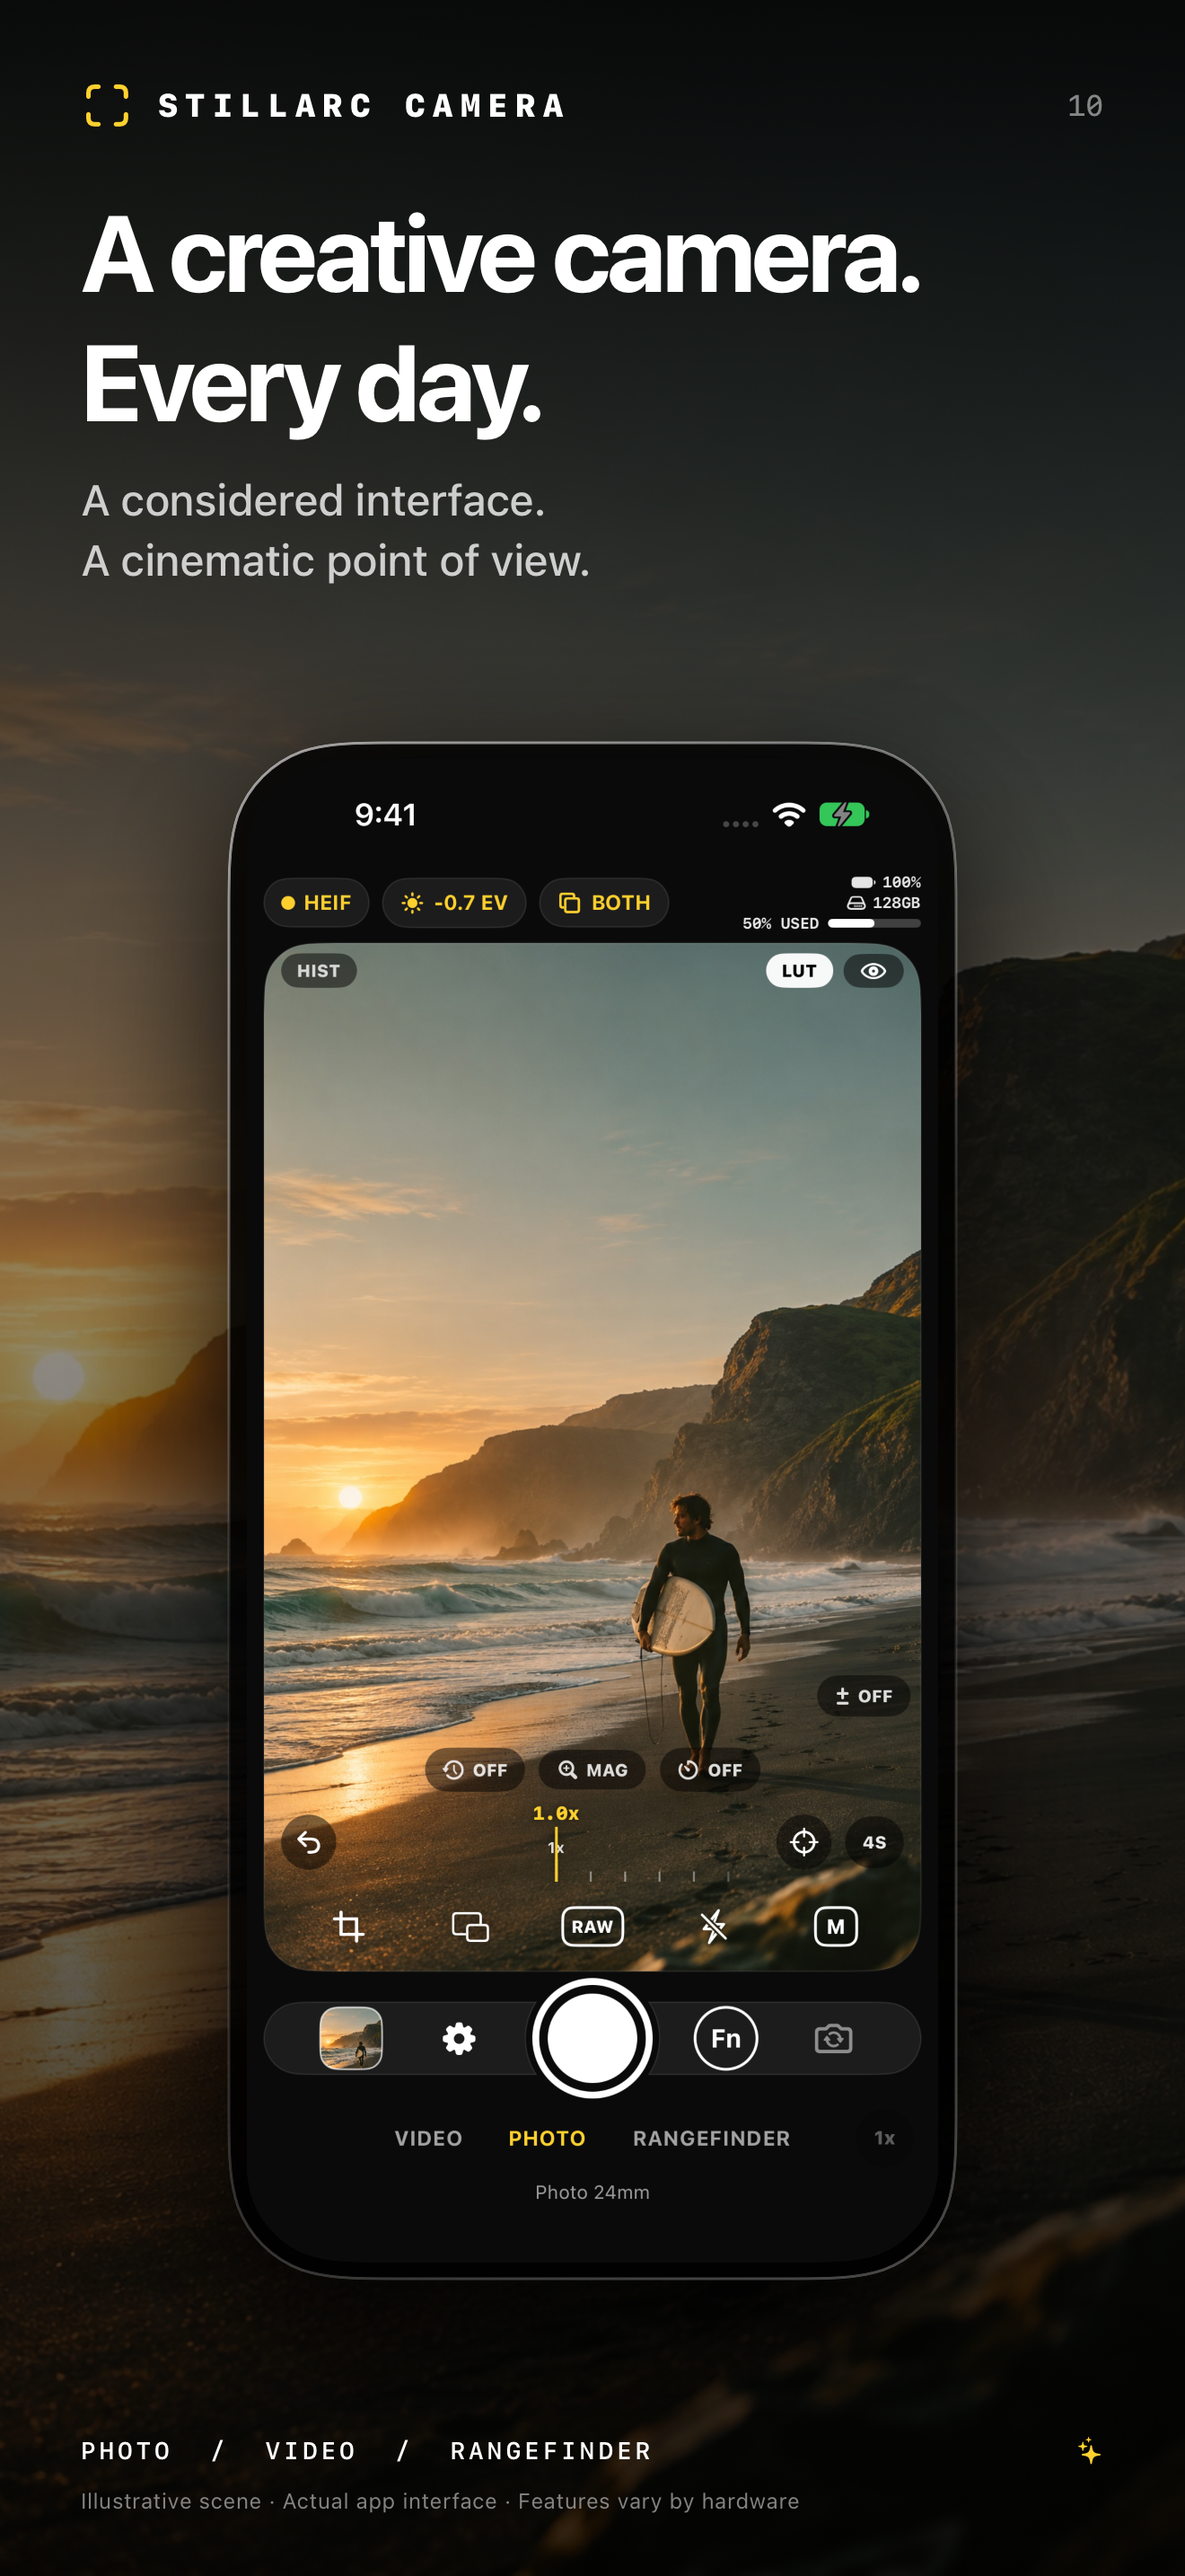
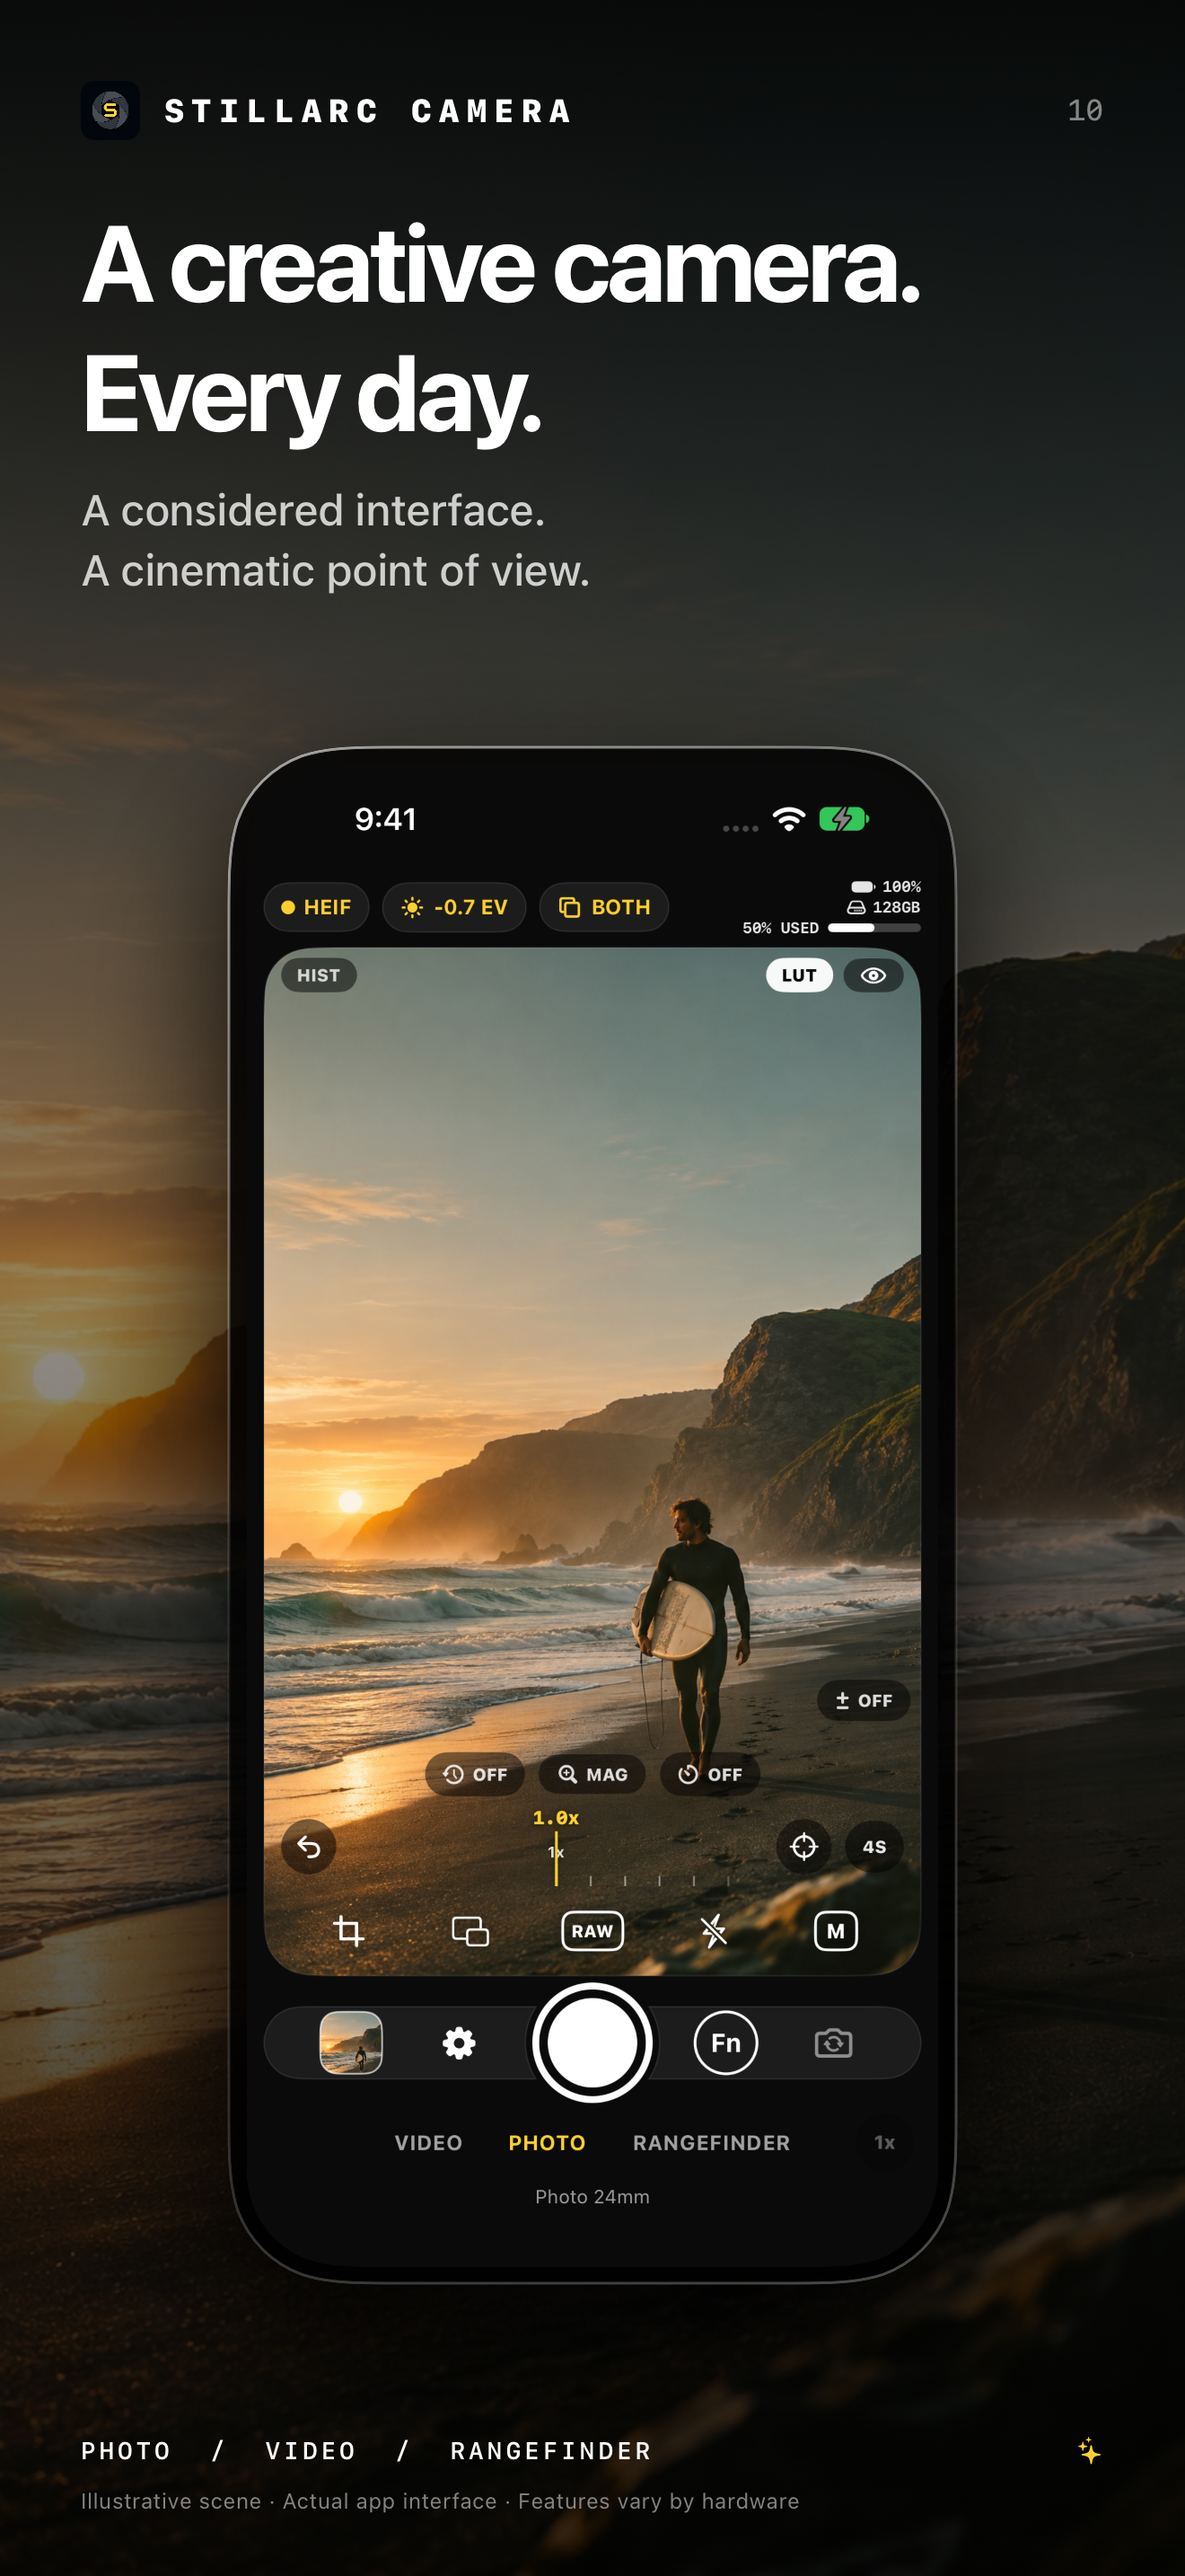
Adopt approved Camera aperture identity across app and marketing

diff --git a/scripts/refresh-marketing-previews.swift b/scripts/refresh-marketing-previews.swift
@@ -1,0 +1,27 @@
+import Foundation
+import CoreGraphics
+import ImageIO
+import UniformTypeIdentifiers
+
+let root=URL(fileURLWithPath:#filePath).deletingLastPathComponent().deletingLastPathComponent()
+let shots=URL(fileURLWithPath:CommandLine.arguments[1])
+func contact(_ inputs:[URL],width:Int,height:Int,columns:Int,to output:URL) throws {
+    let c=CGContext(data:nil,width:width,height:height,bitsPerComponent:8,bytesPerRow:width*4,space:CGColorSpace(name:CGColorSpace.sRGB)!,bitmapInfo:CGImageAlphaInfo.noneSkipLast.rawValue)!
+    c.setFillColor(CGColor(red:0.025,green:0.03,blue:0.04,alpha:1));c.fill(CGRect(x:0,y:0,width:width,height:height));c.interpolationQuality = .high
+    let rows=(inputs.count+columns-1)/columns,pad=14.0
+    let w=(Double(width)-pad*Double(columns+1))/Double(columns),h=(Double(height)-pad*Double(rows+1))/Double(rows)
+    for (index,url) in inputs.enumerated() {
+        guard let s=CGImageSourceCreateWithURL(url as CFURL,nil),let image=CGImageSourceCreateImageAtIndex(s,0,nil) else {throw NSError(domain:"MarketingPreview",code:1,userInfo:[NSLocalizedDescriptionKey:"Missing image: "+url.path])}
+        let scale=min(w/Double(image.width),h/Double(image.height)),iw=Double(image.width)*scale,ih=Double(image.height)*scale
+        let x=pad+Double(index%columns)*(w+pad)+(w-iw)/2,y=Double(height)-pad-Double(index/columns)*(h+pad)-ih-(h-ih)/2
+        c.draw(image,in:CGRect(x:x,y:y,width:iw,height:ih))
+    }
+    let d=CGImageDestinationCreateWithURL(output as CFURL,UTType.jpeg.identifier as CFString,1,nil)!
+    CGImageDestinationAddImage(d,c.makeImage()!,[kCGImageDestinationLossyCompressionQuality:0.92] as CFDictionary)
+    guard CGImageDestinationFinalize(d) else {throw NSError(domain:"MarketingPreview",code:2)}
+}
+let deck=try FileManager.default.contentsOfDirectory(at:root.appendingPathComponent("Marketing/AppStore"),includingPropertiesForKeys:nil).filter {$0.pathExtension=="png"}.sorted {$0.lastPathComponent<$1.lastPathComponent}
+guard deck.count==10 else {fatalError("Expected ten marketing slides")}
+try contact(deck,width:1272,height:1080,columns:5,to:root.appendingPathComponent("Marketing/Overview.jpg"))
+let tour=[0,3,8,14].map {shots.appendingPathComponent("tour-\($0).png")}
+try contact(tour,width:1180,height:633,columns:4,to:root.appendingPathComponent("Marketing/Onboarding.jpg"))

diff --git a/scripts/render-icon.swift b/scripts/render-icon.swift
@@ -1,0 +1,19 @@
+import CoreGraphics
+import ImageIO
+import UniformTypeIdentifiers
+import Foundation
+
+// Approved source artwork; resizing and tint adaptation do not alter the emblem.
+let args=CommandLine.arguments
+let dark=args.contains("--dark") || args.contains("--tinted")
+let edge=args.contains("--master") ? 1254:(args.contains("--brand") ? 768:1024)
+let root=URL(fileURLWithPath:#filePath).deletingLastPathComponent().deletingLastPathComponent()
+let master=root.appendingPathComponent("Marketing/Icons/Stillarc-\(dark ? "Dark":"Light").png")
+guard let source=CGImageSourceCreateWithURL(master as CFURL,nil),let image=CGImageSourceCreateImageAtIndex(source,0,nil) else {fatalError("Approved icon master missing")}
+let tinted=args.contains("--tinted")
+let space=CGColorSpace(name:tinted ? CGColorSpace.genericGrayGamma2_2:CGColorSpace.sRGB)!
+let context=CGContext(data:nil,width:edge,height:edge,bitsPerComponent:8,bytesPerRow:edge*(tinted ? 1:4),space:space,bitmapInfo:tinted ? CGImageAlphaInfo.none.rawValue:CGImageAlphaInfo.noneSkipLast.rawValue)!
+context.interpolationQuality = .high;context.draw(image,in:CGRect(x:0,y:0,width:edge,height:edge))
+let url=URL(fileURLWithPath:args[1]),destination=CGImageDestinationCreateWithURL(url as CFURL,UTType.png.identifier as CFString,1,nil)!
+CGImageDestinationAddImage(destination,context.makeImage()!,nil)
+guard CGImageDestinationFinalize(destination) else {fatalError("Icon PNG encoding failed")}

diff --git a/StillarcCamera/MarketingExport.swift b/StillarcCamera/MarketingExport.swift
@@ -11,7 +11,7 @@ struct MarketingSlide: View {
             LinearGradient(colors: [.black.opacity(0.90), .black.opacity(0.42), .black.opacity(0.82)], startPoint: .top, endPoint: .bottom)
             VStack(alignment: .leading, spacing: 0) {
                 HStack(spacing: 9) {
-                    Image(systemName: "viewfinder").font(.system(size: 16, weight: .semibold)).foregroundStyle(Theme.gold)
+                    Image("BrandIcon").resizable().scaledToFit().frame(width:22,height:22).clipShape(RoundedRectangle(cornerRadius:5))
                     Text("STILLARC CAMERA").font(.system(size: 12, weight: .heavy, design: .monospaced)).tracking(2.8)
                     Spacer()
                     Text(String(format: "%02d", story.id == FeatureStory.all.count - 1 ? 10 : story.id + 1)).font(.system(size: 11, weight: .medium, design: .monospaced)).foregroundStyle(.white.opacity(0.5))
@@ -52,7 +52,7 @@ struct MarketingExportHost: View {
         ZStack {
             Color.black
             VStack(spacing: 20) {
-                Image(systemName: "viewfinder").font(.system(size: 60)).foregroundStyle(Theme.gold)
+                Image("BrandIcon").resizable().scaledToFit().frame(width:70,height:70).clipShape(RoundedRectangle(cornerRadius:15))
                 Text(message).foregroundStyle(.white)
             }
         }

diff --git a/StillarcCamera/FeatureTour.swift b/StillarcCamera/FeatureTour.swift
@@ -113,7 +113,7 @@ struct FeatureTour: View {
                     .blur(radius: 18).overlay(.black.opacity(0.62)).ignoresSafeArea()
                 VStack(spacing: 10) {
                     HStack {
-                        Label("STILLARC CAMERA", systemImage: "viewfinder")
+                        Label {Text("STILLARC CAMERA")} icon: {Image("BrandIcon").resizable().scaledToFit().frame(width:20,height:20).clipShape(RoundedRectangle(cornerRadius:4))}
                             .font(.system(size: 12, weight: .heavy, design: .monospaced)).tracking(2)
                         Spacer()
                         Button("Skip tour", action: finish).font(.system(size: 13, weight: .semibold))

diff --git a/DEVELOPMENT.md b/DEVELOPMENT.md
@@ -114,3 +114,8 @@ Non-video modes and photo presets normalize Log to Standard, including legacy pr
 Storage destinations are snapshotted per shutter press/recording. Photos-save tasks return success. Photos-only captures remain indexed/protected until import succeeds; failed or interrupted saves retain a persisted recovery flag. Automatic cleanup uses capture age, skips recovery/editing items and waits until gallery review ends. It reuses atomic index-first deletion and the Photos-save barrier, with background file removal. Never delete Photos assets for this preference. `--verify-capture-storage` uses private fixtures and mocked Photos results, not the real library.
 
 Develop uses one explicit extended-sRGB working space for its camera-calibrated look operations in both preview and save. Brightness crosses to linear light, and HDR previews render to an EDR float surface. RAW preview pixels are cached once in a 1600-pixel float image; do not insert an SDR JPEG between RAW decode and preview adjustments. The larger preview uses 56% of available height, capped at 480 points. `--verify-editor-preview` now includes camera-look swatches, export matching, HDR and a 1600-pixel bounded interaction sweep; reports distinguish render completion from display latency.
+
+
+## 1.3.4 — approved identity refresh
+
+The flat graphite aperture and rounded yellow S replace the prior luminous multi-ring artwork in all Home Screen variants, the tour BrandIcon, marketing headers and Desktop master PNGs. scripts/render-icon.swift derives app/brand/tinted assets from Marketing/Icons masters. The production bundle identifiers, capture pipeline and settings remain unchanged. Version/build are synchronized across Camera and its embedded extensions.

diff --git a/VALIDATION.md b/VALIDATION.md
@@ -1,5 +1,11 @@
 # Stillarc Camera validation
 
+## 1.3.4 — approved icon and branding
+
+Release archive and Debug simulator builds passed for Camera and its embedded extensions. The new light/dark/tinted 1024px Home Screen icons and 768px in-app BrandIcon copies were checked for opaque encoding, dimensions and matching approved artwork. All three full-size Desktop PNGs match the marketing masters byte-for-byte. Ten opaque 1320×2868 marketing slides and the Overview/Onboarding contact sheets were refreshed; actual tour pages were captured for visual review, including the final summary emblem. Strict production signature verification passed. The signed release was installed and launched on the connected iPhone 17 Pro.
+
+This is an identity/resource update; no capture/rendering algorithms or saved preferences were changed, and no new sustained thermal or capture-quality claim is made. [Asset verification](Validation/1.3.4/icon-assets.json).
+
 ## 1.3.3 — Log/photo transition, storage policy and Develop preview
 
 On the **black iPhone 16 Pro**, activating supported Apple Log then immediately applying a photo preset returned the UI to Standard and delivered a processed photo. Legacy photo-preset Log/Log 2 fields also normalized to Standard without losing preset matching, and both shutter attempts succeeded. **Actual Apple Log 2 capture is not supported on this 16 Pro**; its Log 2 check validates metadata/state normalization, not that hardware format. The transition restores the existing input connection to the photo preset and sRGB, without removing/re-adding camera inputs.

diff --git a/README.md b/README.md
@@ -1,5 +1,7 @@
 # Stillarc Camera
 
+<img src="Marketing/Icons/Stillarc-Light.png" width="90" alt="Stillarc light icon"> <img src="Marketing/Icons/Stillarc-Dark.png" width="90" alt="Stillarc dark icon">
+
 **Your vision. Beautifully framed.**
 
 A creative camera for iPhone: natural photography, expressive video, and a rangefinder way of seeing. StillarcCamera brings live looks, manual controls, exposure aids and two-format recording into one considered interface.
@@ -284,3 +286,8 @@ Found an issue? Include the iPhone model, iOS version, mode, format/frame rate, 
 
 
 The display name, Xcode project and GitHub repository use Stillarc Camera. The installed app retains its original bundle identifier and stored preference keys so an update keeps existing captures, presets and settings. New preset links use the stillarc scheme, and previously copied links remain supported.
+
+
+### Camera identity · 1.3.4
+
+The approved flat aperture and geometric S replace the previous illuminated multi-ring icon across light, dark and tinted Home Screen appearances, the in-app feature tour and marketing artwork. [Approved masters](Marketing/Icons) · [Generation details](Marketing/GenerationPrompts.json). The installed name remains **Stillarc**.

diff --git a/Marketing/README.md b/Marketing/README.md
@@ -55,4 +55,7 @@ Format, lens and capture combinations vary by device. Listing setup also require
 
 ## Approved app icons
 
-[Icons](Icons) contains the approved light, dark and tinted circular Stillarc S/aperture artwork. App asset copies are opaque 1024 × 1024 PNGs; the full-resolution masters are retained here. The installed Home Screen name is **Stillarc**. Generation details are recorded in GenerationPrompts.json.
+[Icons](Icons) contains the approved light, dark and tinted flat aperture/geometric-S artwork. App asset copies are opaque 1024 × 1024 PNGs; the full-resolution masters are retained here. The installed Home Screen name is **Stillarc**. Generation details are recorded in GenerationPrompts.json.
+
+
+Camera 1.3.4 (21) adopts the simplified aperture/S identity approved on 13 November 2026. App icons, the feature-tour BrandIcon, marketing headers and Desktop light/dark/tinted PNGs share the same master geometry. `scripts/render-icon.swift` resamples the masters; `--tinted` creates the monochrome iOS appearance without changing the symbol.
